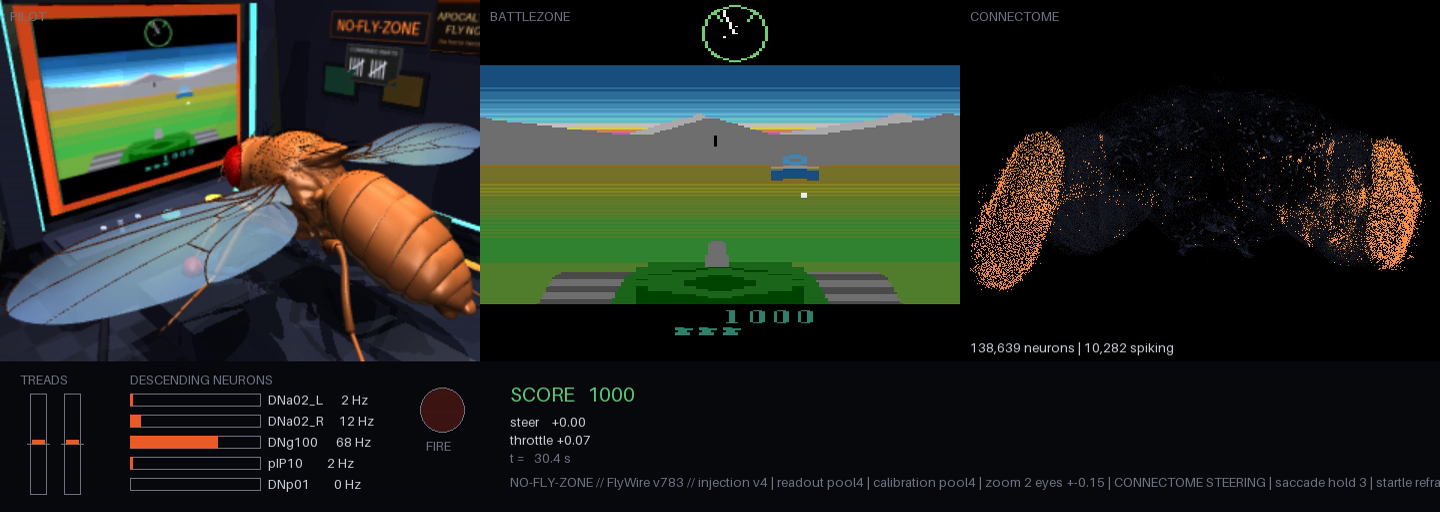
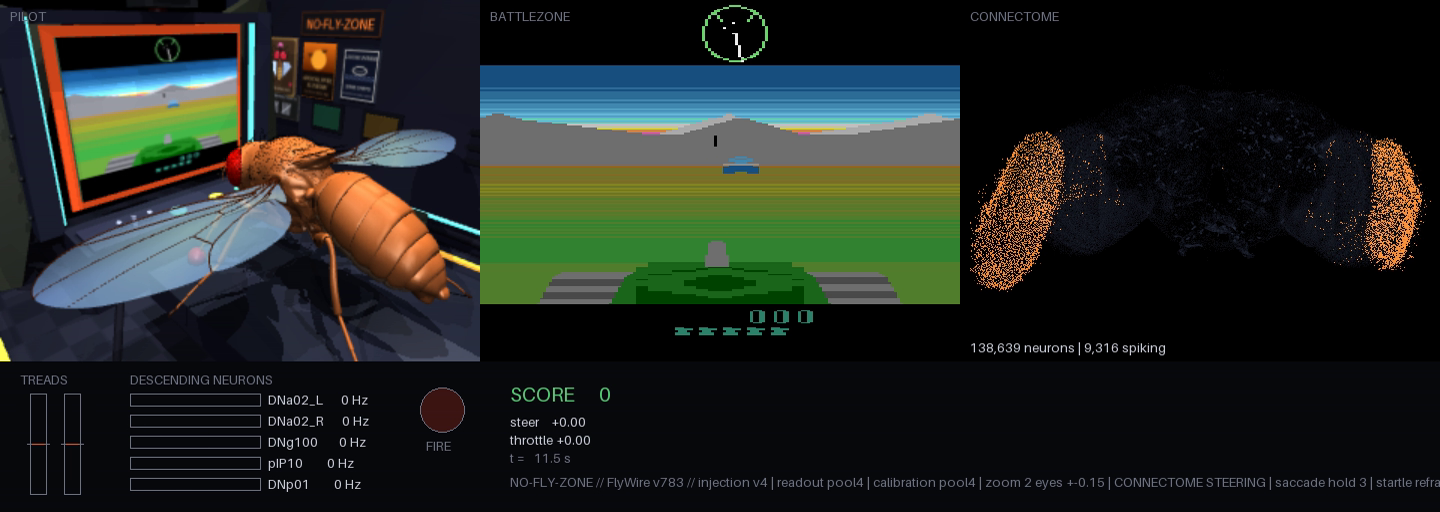
chore(media): refresh demo GIF and dashboard still with the new wall; gate run_m3 on the whole run
The final-tick silence check failed on a corrected brain looking at a dark
game-over screen; the gate now uses the run's peak spiking count.

diff --git a/scripts/run_m3.py b/scripts/run_m3.py
@@ -105,9 +105,11 @@ def main() -> None:
     t0 = time.time()
     trace = []
     names = loop.game.action_meanings
+    peak_spiking = 0
     for i in range(args.steps):
         state = loop.step()
         spiking = int((brain.window_counts > 0).sum())
+        peak_spiking = max(peak_spiking, spiking)
         trace.append({"tick": i, "dn": state["dn"], "drive": dict(loop.controls.drive),
                       "suppressed": bool(loop.controls.suppressed),
                       "steer": loop.controls.steer, "throttle": loop.controls.throttle,
@@ -145,7 +147,9 @@ def main() -> None:
           f"({speed:.1f}x real time)")
     print("latency:")
     print(loop.latency_report())
-    assert (brain.window_counts > 0).sum() > 0, "brain silent — injection broken"
+    # a corrected brain is genuinely silent on a dark game-over screen, so
+    # gate on the whole run, not the final tick
+    assert peak_spiking > 0, "brain silent for the whole run — injection broken"
     if args.trace:
         import json
         OUT.mkdir(exist_ok=True)
